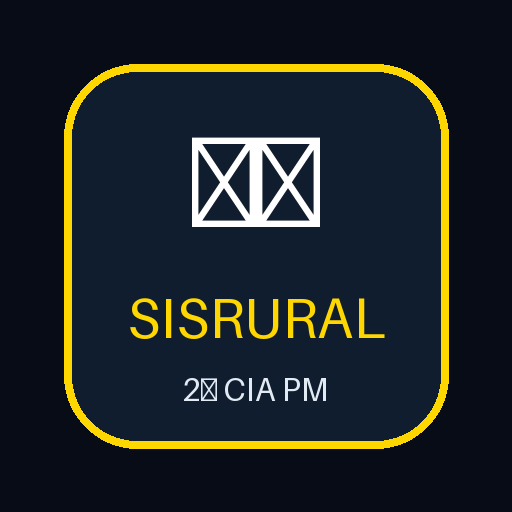
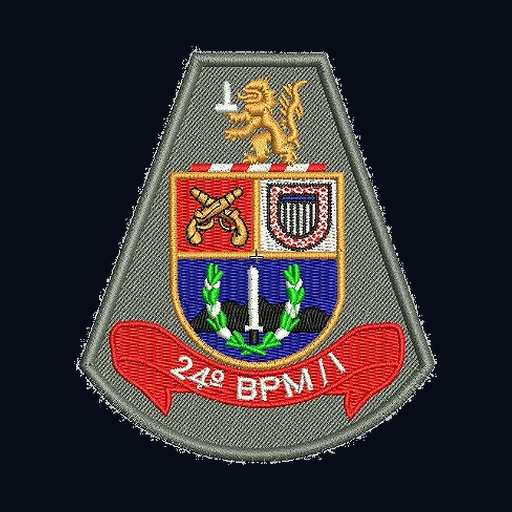
Add files via upload

diff --git a/css/premium.css b/css/premium.css
@@ -586,3 +586,59 @@ body{
     font-size:15px!important;
   }
 }
+
+/* ─────────────────────────────────────────────────────────────
+   SISRURAL V10.6 DEV – Dock móvel recolhível + Brasão 24º BPM/I
+   Mantém IDs/onClick dos comandos. Apenas apresentação mobile.
+   ───────────────────────────────────────────────────────────── */
+.auth-brand{display:flex;align-items:center;gap:13px;margin-bottom:8px}
+.auth-brand img{width:54px;height:62px;object-fit:contain;filter:drop-shadow(0 5px 12px rgba(0,0,0,.35))}
+.auth-brand h2{margin:0!important}
+.auth-brand span{display:block;margin-top:2px;color:#94a3b8;font-family:'JetBrains Mono',monospace;font-size:10px;letter-spacing:1.3px;font-weight:700}
+.tb-shield{display:flex!important;align-items:center!important;justify-content:center!important;overflow:hidden!important}
+.tb-shield img{width:100%;height:100%;object-fit:contain;padding:3px;filter:drop-shadow(0 3px 7px rgba(0,0,0,.35))}
+.map-dock-handle{display:none}
+
+@media(max-width:820px){
+  .topbar .tb-shield{width:54px!important;height:62px!important;min-width:54px!important;border:0!important;background:transparent!important;box-shadow:none!important}
+  .topbar .tb-shield img{padding:0!important}
+
+  .map-dock-handle{
+    display:flex!important;position:absolute!important;z-index:1003!important;
+    right:7px!important;top:34%!important;width:43px!important;height:52px!important;
+    align-items:center!important;justify-content:center!important;
+    border:1px solid rgba(34,197,94,.62)!important;border-radius:15px 0 0 15px!important;
+    background:rgba(3,8,18,.94)!important;color:#fff!important;font-size:23px!important;font-weight:900!important;
+    box-shadow:-8px 8px 22px rgba(0,0,0,.32)!important;backdrop-filter:blur(12px)!important;
+    touch-action:none!important;cursor:grab!important;user-select:none!important;
+  }
+  .map-dock-handle:active{cursor:grabbing!important}
+  .map-dock-handle.dock-open{background:#16a34a!important;border-color:#4ade80!important}
+
+  .map-btns{
+    position:absolute!important;z-index:1002!important;
+    right:52px!important;left:auto!important;top:calc(34% - 8px)!important;bottom:auto!important;
+    transform:translateX(calc(100% + 70px))!important;
+    width:176px!important;max-width:calc(100vw - 74px)!important;max-height:70vh!important;
+    display:grid!important;grid-template-columns:repeat(3,48px)!important;grid-auto-rows:48px!important;
+    gap:7px!important;padding:9px!important;overflow-y:auto!important;overflow-x:hidden!important;
+    border-radius:18px!important;background:rgba(3,8,18,.95)!important;border:1px solid rgba(34,197,94,.34)!important;
+    backdrop-filter:blur(14px)!important;box-shadow:0 16px 35px rgba(0,0,0,.42)!important;
+    opacity:0!important;pointer-events:none!important;transition:transform .22s ease,opacity .18s ease!important;
+  }
+  .map-btns.dock-open{transform:translateX(0)!important;opacity:1!important;pointer-events:auto!important}
+  .map-btns .mbtn,#bAdd{
+    display:flex!important;width:48px!important;min-width:48px!important;height:48px!important;min-height:48px!important;
+    margin:0!important;border-radius:13px!important;font-size:20px!important;grid-column:auto!important;order:initial!important;flex:none!important;
+  }
+  #bAdd{font-size:25px!important;background:linear-gradient(180deg,#16a34a,#22c55e)!important;color:#fff!important}
+  #bAdd::before,.mbtn::after{display:none!important}
+  .leaflet-bottom.leaflet-left{bottom:18px!important;left:10px!important}
+}
+@media(max-width:430px){
+  .map-dock-handle{right:4px!important;width:41px!important;height:50px!important}
+  .map-btns{right:49px!important;width:166px!important;grid-template-columns:repeat(3,45px)!important;grid-auto-rows:45px!important;gap:6px!important;padding:8px!important}
+  .map-btns .mbtn,#bAdd{width:45px!important;min-width:45px!important;height:45px!important;min-height:45px!important;font-size:18px!important}
+  #bAdd{font-size:23px!important}
+  .auth-brand img{width:50px;height:58px}
+}

diff --git a/js/mobile-dock.js b/js/mobile-dock.js
@@ -1,0 +1,63 @@
+(function(){
+  const mq = window.matchMedia('(max-width: 820px)');
+  const dock = document.getElementById('mapDock');
+  const handle = document.getElementById('mapDockHandle');
+  if(!dock || !handle) return;
+  const KEY_OPEN='sisrural_mobile_dock_open';
+  const KEY_Y='sisrural_mobile_dock_y';
+
+  function applyMode(){
+    if(!mq.matches){
+      dock.classList.remove('dock-open');
+      handle.style.removeProperty('top');
+      return;
+    }
+    const open=localStorage.getItem(KEY_OPEN)==='1';
+    dock.classList.toggle('dock-open',open);
+    handle.classList.toggle('dock-open',open);
+    handle.textContent=open?'×':'☰';
+    const saved=parseFloat(localStorage.getItem(KEY_Y));
+    if(Number.isFinite(saved)){
+      const max=Math.max(88, window.innerHeight-130);
+      handle.style.top=Math.min(Math.max(saved,88),max)+'px';
+      dock.style.top=Math.min(Math.max(saved-8,80),Math.max(80,window.innerHeight-420))+'px';
+    }
+  }
+  function setOpen(open){
+    localStorage.setItem(KEY_OPEN,open?'1':'0');
+    dock.classList.toggle('dock-open',open);
+    handle.classList.toggle('dock-open',open);
+    handle.textContent=open?'×':'☰';
+  }
+  handle.addEventListener('click',e=>{
+    if(handle.dataset.dragged==='1'){handle.dataset.dragged='0';return;}
+    setOpen(!dock.classList.contains('dock-open'));
+  });
+
+  let dragging=false,startY=0,startTop=0;
+  handle.addEventListener('pointerdown',e=>{
+    if(!mq.matches)return;
+    dragging=true; startY=e.clientY;
+    startTop=parseFloat(getComputedStyle(handle).top)||Math.max(110,window.innerHeight*.36);
+    handle.setPointerCapture?.(e.pointerId);
+  });
+  handle.addEventListener('pointermove',e=>{
+    if(!dragging)return;
+    const delta=e.clientY-startY;
+    if(Math.abs(delta)>5) handle.dataset.dragged='1';
+    const max=Math.max(88,window.innerHeight-130);
+    const top=Math.min(Math.max(startTop+delta,88),max);
+    handle.style.top=top+'px';
+    dock.style.top=Math.min(Math.max(top-8,80),Math.max(80,window.innerHeight-420))+'px';
+  });
+  function end(){
+    if(!dragging)return; dragging=false;
+    const top=parseFloat(getComputedStyle(handle).top);
+    if(Number.isFinite(top))localStorage.setItem(KEY_Y,String(top));
+  }
+  handle.addEventListener('pointerup',end);
+  handle.addEventListener('pointercancel',end);
+  window.addEventListener('resize',applyMode);
+  mq.addEventListener?.('change',applyMode);
+  applyMode();
+})();

diff --git a/index.html b/index.html
@@ -17,12 +17,12 @@
 <meta name="apple-mobile-web-app-title" content="SISRURAL">
 <meta name="apple-mobile-web-app-status-bar-style" content="black-translucent">
 <link rel="apple-touch-icon" href="icons/icon-192.png">
-<meta name="sisrural-version" content="V10.4 OS-002A DEV - dispositivos e senha segura">
+<meta name="sisrural-version" content="V10.6 DEV - dock mobile + brasão 24º BPM/I">
 </head>
 <body>
 <div id="authGate">
   <div class="authBox">
-    <h2>🛡 PATRULHA RURAL</h2>
+    <div class="auth-brand"><img src="./icons/brasao-24bpmi.png" alt="Brasão do 24º BPM/I"><div><h2>PATRULHA RURAL</h2><span>24º BPM/I</span></div></div>
     <p>Casa Branca/SP · acesso restrito</p>
     <label class="field-lbl">E-MAIL</label><input class="field-inp" id="v7Email" type="email" placeholder="seuemail@..." autocomplete="username">
     <label class="field-lbl">SENHA</label><input class="field-inp" id="v7Senha" type="password" placeholder="Senha" autocomplete="current-password">
@@ -39,7 +39,7 @@
 
 <!-- TOPBAR -->
 <div class="topbar">
-  <div class="tb-shield">🛡</div>
+  <div class="tb-shield"><img src="./icons/brasao-24bpmi.png" alt="Brasão do 24º BPM/I"></div>
   <div class="tb-text">
     <h1>PATRULHA RURAL DE CASA BRANCA</h1>
     <p>2ª Companhia PM · 4 Quadrantes · 24º BPM/I · V10.2 Operacional</p>
@@ -77,7 +77,8 @@
 <!-- CONTAINER DO MAPA (flex:1) -->
 <div id="map">
   <!-- Botões flutuantes dentro do mapa -->
-  <div class="map-btns">
+  <button type="button" class="map-dock-handle" id="mapDockHandle" aria-label="Abrir comandos" title="Comandos">☰</button>
+  <div class="map-btns" id="mapDock">
     <div class="mbtn on" id="bSat" onclick="togSat()" title="Satélite/Mapa" data-label="Mapa">🗺</div>
     <div class="mbtn on" id="bRoads" onclick="togLayer('roads')" title="Rodovias" data-label="Rodovias">🛣</div>
     <div class="mbtn on" id="bProps" onclick="togLayer('props')" title="Propriedades" data-label="Propriedades">🏡</div>
@@ -227,6 +228,7 @@
 
 <script src="./js/mapa-ui.js"></script>
 
+<script src="./js/mobile-dock.js"></script>
 <script type="module" src="./js/firebase-admin.js"></script>
 
 <script src="./js/service-worker-register.js"></script>

diff --git a/service-worker.js b/service-worker.js
@@ -1,12 +1,12 @@
-const CACHE_NAME = 'sisrural-v10-4-os002a-senha-dev-os002b-mobile';
+const CACHE_NAME = 'sisrural-v10-6-dock-mobile-brasao-24bpmi-dev';
 const APP_SHELL=[
   './','./index.html','./offline.html','./manifest.webmanifest','./config.firebase.js',
   './css/app.css','./css/premium.css',
   './js/request-access.js','./js/mapa-ui.js','./js/firebase-admin.js','./js/service-worker-register.js',
-  './icons/icon-192.png','./icons/icon-512.png'
+  './icons/icon-192.png','./icons/icon-512.png','./icons/brasao-24bpmi.png','./js/mobile-dock.js'
 ];
 self.addEventListener('install',event=>{self.skipWaiting();event.waitUntil(caches.open(CACHE_NAME).then(cache=>cache.addAll(APP_SHELL).catch(()=>{})));});
 self.addEventListener('activate',event=>{event.waitUntil(caches.keys().then(keys=>Promise.all(keys.filter(k=>k!==CACHE_NAME).map(k=>caches.delete(k)))).then(()=>self.clients.claim()));});
 self.addEventListener('fetch',event=>{if(event.request.method!=='GET')return;event.respondWith(fetch(event.request).then(resp=>{const copy=resp.clone();caches.open(CACHE_NAME).then(cache=>cache.put(event.request,copy)).catch(()=>{});return resp;}).catch(()=>caches.match(event.request).then(r=>r||caches.match('./offline.html'))));});
 
-// V10.4 OS-002A DEV - dispositivos + definição/redefinição segura de senha
+// V10.6 DEV - dock mobile recolhível + brasão 24º BPM/I

diff --git a/README.md b/README.md
@@ -6,3 +6,9 @@
 - Mantém offline e sincronização.
 
 Teste: ?v=103campofix
+
+## V10.6 DEV – Mobile + identidade 24º BPM/I
+- Dock lateral recolhível/arrastável no smartphone.
+- Mantidos os 11 comandos originais e suas funções.
+- Brasão do 24º BPM/I aplicado no login, cabeçalho e ícones PWA.
+- Testar na branch `dev-seguranca` antes de qualquer promoção para produção.
